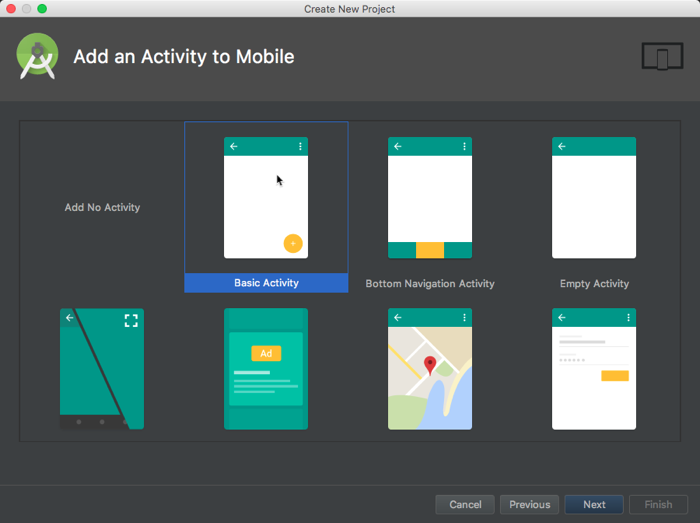
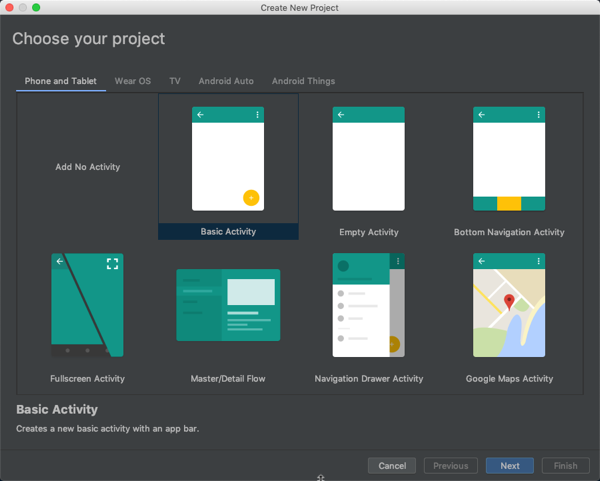
lab & demo steps updated for latest dependencies

diff --git a/Demos/03-add-aad-auth/README.md b/Demos/03-add-aad-auth/README.md
@@ -10,11 +10,11 @@ With the application created, now extend it to support authentication with Azure
     1. Add the following code to the top of the `dependencies` section, immediately before the dependencies added in the previous section:
 
         ```gradle
-        implementation('com.microsoft.identity.client:msal:0.1.3') {
+        implementation('com.microsoft.identity.client:msal:0.2.1') {
             exclude group: 'com.android.support', module: 'appcompat-v7'
             exclude group: 'com.google.code.gson'
         }
-        implementation 'com.android.volley:volley:1.0.0'
+        implementation 'com.android.volley:volley:1.1.0'
         ```
 
     1. Sync the dependencies with the project by selecting **File > Sync Project with Gradle Files**.
@@ -44,14 +44,14 @@ With the application created, now extend it to support authentication with Azure
         </activity>
         ```
 
-    1. Replace the `{{REPLACE_WITH_APP_ID}}` in the markup above with the value of the Azure AD application copied when creating a the Azure AD application in a previous demo. Do not remove the **msal** prefix in the markup above.
+    1. Replace the `{{REPLACE_WITH_APP_ID}}` in the markup above with the value of the Azure AD application copied when creating a the Azure AD application in [exercise 1 above](#exercise1). Do not remove the **msal** prefix in the markup above.
 
       > The MSAL Android SDK does not require you to enter the redirect URI provided by the App Registration Portal. It can use the information provided in this step to dynamically generate the redirect URI for you.
 
 1. Add an class to declare a new callback type that you will use:
     1. In the **Android** tool window, right-click the **app > java > com.microsoft.nativeo365calendarevents** and select **New > Java Class**:
 
-        ![Screenshot adding a new Java class](./Images/as-create-aad-01.png)
+        ![Screenshot adding a new Java class](../../Images/as-create-aad-01.png)
 
     1. Name the class **Constants** and select **OK**.
 
@@ -60,16 +60,16 @@ With the application created, now extend it to support authentication with Azure
         public static final String CLIENT_ID = "{{REPLACE_WITH_APP_ID}}";
         ```
 
-    1. Replace the `{{REPLACE_WITH_APP_ID}}` in the markup above with the value of the Azure AD application copied when creating a the Azure AD application in a previous demo. Do not remove the **msal** prefix in the markup above.
+    1. Replace the `{{REPLACE_WITH_APP_ID}}` in the markup above with the value of the Azure AD application copied when creating a the Azure AD application in [exercise 1 above](#exercise1). Do not remove the **msal** prefix in the markup above.
 
 1. Add an interface to declare a new callback type that you will use:
     1. In the **Android** tool window, right-click the **app > java > com.microsoft.nativeo365calendarevents** and select **New > Java Class**:
     1. Name the class **MSALAuthenticationCallback**, set the **Kind** to **Interface** and select **OK**.
-    1. Add the following `import` statements to the existing `import` statements:
+    1. Add the following `import` statements before the interface declaration:
 
         ```java
         import com.microsoft.identity.client.AuthenticationResult;
-        import com.microsoft.identity.client.MsalException;
+        import com.microsoft.identity.client.exception.MsalException;
         ```
 
     1. Add the following code to the `MSALAuthenticationCallback` interface:
@@ -84,7 +84,7 @@ With the application created, now extend it to support authentication with Azure
 1. Add an authentication helper class:
     1. In the **Android** tool window, right-click the **app > java > com.microsoft.nativeo365calendarevents** and select **New > Java Class**:
     1. Name the class **AuthenticationController** and select **OK**.
-    1. Add the following `import` statements to the existing `import` statements:
+    1. Add the following `import` statements before the class declaration:
 
         ```java
         import android.app.Activity;
@@ -93,7 +93,7 @@ With the application created, now extend it to support authentication with Azure
 
         import com.microsoft.identity.client.AuthenticationCallback;
         import com.microsoft.identity.client.AuthenticationResult;
-        import com.microsoft.identity.client.MsalException;
+        import com.microsoft.identity.client.exception.MsalException;
         import com.microsoft.identity.client.PublicClientApplication;
         ```
 
@@ -125,6 +125,10 @@ With the application created, now extend it to support authentication with Azure
             }
           }
           return INSTANCE;
+        }
+
+        public static synchronized void resetInstance() {
+          INSTANCE = null;
         }
         ```
 
@@ -175,6 +179,16 @@ With the application created, now extend it to support authentication with Azure
         }
         ```
 
+    1. Add the following code to the `AuthenticationController` class to sign out of the application:
+
+        ```java
+        public void signout() {
+          mApplication.removeAccount(mAuthResult.getAccount());
+          // Reset the AuthenticationManager object
+          AuthenticationController.resetInstance();
+        }
+        ```
+
 1. The callback added in the last step calls the provided callback based on the results of the authentication prompt. While there are many ways to implement the callback, this application will implement it on the **MainActivity**.
     1. In the **Android** tool window, locate and open the file **app > java > com.microsoft.nativeo365calendarevents > MainActivity**.
     1. Update the `MainActivity` class to implement the `MSALAuthenticationCallback`:
@@ -190,8 +204,8 @@ With the application created, now extend it to support authentication with Azure
         import android.util.Log;
 
         import com.microsoft.identity.client.AuthenticationResult;
-        import com.microsoft.identity.client.MsalException;
-        import com.microsoft.identity.client.User;
+        import com.microsoft.identity.client.exception.MsalException;
+        import com.microsoft.identity.client.IAccount;
         ```
 
     1. Add the following methods to implement the `MSALAuthenticationCallback` interface.
@@ -201,11 +215,11 @@ With the application created, now extend it to support authentication with Azure
         // these methods are called by the AuthenticationController
         @Override
         public void onMsalAuthSuccess(AuthenticationResult authenticationResult) {
-          User user = authenticationResult.getUser();
+          IAccount user = authenticationResult.getAccount();
 
-          Toast.makeText(MainActivity.this, "Hello " + user.getName() 
-            + " (" + user.getDisplayableId() + ")!", Toast.LENGTH_LONG
-            ).show();
+          Toast.makeText(MainActivity.this, "Hello " + user.getUsername()
+                  + " (" + user.getAccountIdentifier() + ")!", Toast.LENGTH_LONG
+          ).show();
 
           setPanelVisibility(false, true, false);
         }
@@ -227,13 +241,20 @@ With the application created, now extend it to support authentication with Azure
         //endregion
         ```
 
-1. Wire up the signin button to the authentication process:
-    1. Replace the contents of the `onSignin()` method to the following code:
+1. Wire up the signin and signout buttons to the authentication process:
+    1. Replace the contents of the `onSignin()` & `onSignout()` methods to the following code:
 
         ```java
         private void onSignin() {
           AuthenticationController authController = AuthenticationController.getInstance(this);
           authController.doAcquireToken(this, this);
+        }
+
+        private void onSignout() {
+          AuthenticationController authController = AuthenticationController.getInstance(this);
+          authController.signout();
+
+          setPanelVisibility(true, false, false);
         }
         ```
 
@@ -255,10 +276,10 @@ With the application created, now extend it to support authentication with Azure
     1. When the application loads in the simulator, select the **Signin** button.
     1. The application will load the Azure AD authentication page. Login with your Office 365 Azure AD credentials.
 
-        ![Screenshot of the Azure AD login in the Android simulator](./Images/android-demo-04.png)
+        ![Screenshot of the Azure AD login in the Android simulator](../../Images/android-demo-04.png)
 
         After successfully logging in, you may be prompted to consent to the permissions requested by the application. If prompted, agree to the consent dialog.
 
     1. After completing the authentication and consent process, you will be taken back to the Android application where a toast message will appear with your Azure AD details in it.
 
-        ![Screenshot of the Azure AD login in the Android simulator](./Images/android-demo-05.png)
+        ![Screenshot of the Azure AD login in the Android simulator](../../Images/android-demo-05.png)

diff --git a/Demos/02-create-app/README.md b/Demos/02-create-app/README.md
@@ -4,25 +4,17 @@ In this demo you will create an Android application and wire up the different sc
 
 1. Open **Android Studio**
 1. Select **Start a new Android Studio project**.
-1. In the new project dialog, set the following values:
-    * **Application name:** NativeO365CalendarEvents
-    * **Company domain:** microsoft.com
+1. In the **Choose your project** dialog, under the **Phone and Tablet** tab, select **Basic Activity** and select **Next**:
+
+    ![Screenshot selecting Basic Activity in the Choose your project dialog](../../Images/as-createproject-03.png)
+
+1. In the **Configure your project** dialog, set the following values:
+    * **Name:** NativeO365CalendarEvents
+    * **Package name:** com.microsoft.nativeo365calendarevents
+    * **Language:** Java
+    * **Minimum API Level:** API 23: Android 6.0 (Marshmallow)
 
     ![Screenshot of the new project dialog in Android Studio](../../Images/as-createproject-01.png)
-
-1. In the **Target Android Devices** dialog, set the following values and select **Next**:
-    * **Phone and Tablet**: selected and pick the desired Android version you want to target... select an API version 23 or higher
-    * leave all other options selected
-
-    ![Screenshot of specifying the target Android devices](../../Images/as-createproject-02.png)
-
-1. In the **Add an Activity to Mobile** dialog, select **Basic Activity** and select **Next**:
-
-    ![Screenshot selecting Basic Activity in the Add Activity to Mobile dialog](../../Images/as-createproject-03.png)
-
-1. In the **Configure Activity** dialog, leave the default values and select **Finish**:
-
-    ![Screenshot specifying the details of the new activity](../../Images/as-createproject-04.png)
 
 1. Add the necessary dependencies to the project:
     1. In the **Android** tool window, locate and open the file **Gradle Scripts > build.gradle (Module: app)**:
@@ -32,13 +24,13 @@ In this demo you will create an Android application and wire up the different sc
     1. Add the following implementations to the top of the existing `dependencies` section:
 
         ```gradle
-        implementation 'com.google.code.gson:gson:2.3.1'
+        implementation 'com.google.code.gson:gson:2.8.2'
         implementation 'com.google.guava:guava:25.1-android'
         ```
 
     1. Sync the dependencies with the project by selecting **File > Sync Project with Gradle Files**.
 
-## Create the Application User Interface
+### Create the Application User Interface
 
 The first step is to create the shell of the user experience; creating a workable storyboard.
 
@@ -92,7 +84,18 @@ The first step is to create the shell of the user experience; creating a workabl
                 android:paddingBottom="5dp"
                 android:paddingLeft="35dp"
                 android:paddingRight="35dp"
-                />
+              />
+            <Button
+                android:layout_width="wrap_content"
+                android:layout_height="wrap_content"
+                android:text="Sign out"
+                android:id="@+id/btn_signOut"
+                android:layout_gravity="center"
+                android:paddingTop="5dp"
+                android:paddingBottom="5dp"
+                android:paddingLeft="35dp"
+                android:paddingRight="35dp"
+              />
         </LinearLayout>
         <LinearLayout
             android:layout_width="match_parent"
@@ -152,9 +155,13 @@ The first step is to create the shell of the user experience; creating a workabl
           setPanelVisibility(false,true,false);
         }
 
+        private void onSignout() {
+          setPanelVisibility(true, false, false);
+        }
+
         private void onLoadEvents() {
           Toast.makeText(MainActivity.this, 
-            "Successfully loaded events from Office 365 calendar",
+            "Successfully loaded events from Office 365 calendar", 
             Toast.LENGTH_LONG
           ).show();
         }
@@ -171,6 +178,7 @@ The first step is to create the shell of the user experience; creating a workabl
         ```java
         super.onCreate(savedInstanceState);
         setContentView(R.layout.activity_main);
+
         listEvents = findViewById(R.id.list_events);
         panelSignIn = findViewById(R.id.panel_signIn);
         panelEvents = findViewById(R.id.panel_events);
@@ -180,6 +188,13 @@ The first step is to create the shell of the user experience; creating a workabl
           @Override
           public void onClick(View view) {
             onSignin();
+          }
+        });
+
+        (findViewById(R.id.btn_signOut)).setOnClickListener(new View.OnClickListener() {
+          @Override
+          public void onClick(View view) {
+            onSignout();
           }
         });
 

diff --git a/Lab.md b/Lab.md
@@ -15,7 +15,9 @@ To complete this lab, you need the following:
 
 * Office 365 tenancy
   * If you do not have one, you obtain one (for free) by signing up to the [Office 365 Developer Program](https://developer.microsoft.com/en-us/office/dev-program).
-* [Android Studio](https://developer.android.com/studio/) v3.2.1
+* [Android Studio](https://developer.android.com/studio/) v3.3.1
+* [Gradle](https://gradle.org/) v4.10.1
+  * *Installed with Andriod Studio*
 * [Android SDK](https://developer.android.com/studio/releases/sdk-tools) v26+
 
 <a name="exercise1"></a>
@@ -67,25 +69,17 @@ In this exercise you will create an Android application and wire up the differen
 
 1. Open **Android Studio**
 1. Select **Start a new Android Studio project**.
-1. In the new project dialog, set the following values:
-    * **Application name:** NativeO365CalendarEvents
-    * **Company domain:** microsoft.com
+1. In the **Choose your project** dialog, under the **Phone and Tablet** tab, select **Basic Activity** and select **Next**:
+
+    ![Screenshot selecting Basic Activity in the Choose your project dialog](./Images/as-createproject-03.png)
+
+1. In the **Configure your project** dialog, set the following values:
+    * **Name:** NativeO365CalendarEvents
+    * **Package name:** com.microsoft.nativeo365calendarevents
+    * **Language:** Java
+    * **Minimum API Level:** API 23: Android 6.0 (Marshmallow)
 
     ![Screenshot of the new project dialog in Android Studio](./Images/as-createproject-01.png)
-
-1. In the **Target Android Devices** dialog, set the following values and select **Next**:
-    * **Phone and Tablet**: selected and pick the desired Android version you want to target... select an API version 23 or higher
-    * leave all other options selected
-
-    ![Screenshot of specifying the target Android devices](./Images/as-createproject-02.png)
-
-1. In the **Add an Activity to Mobile** dialog, select **Basic Activity** and select **Next**:
-
-    ![Screenshot selecting Basic Activity in the Add Activity to Mobile dialog](./Images/as-createproject-03.png)
-
-1. In the **Configure Activity** dialog, leave the default values and select **Finish**:
-
-    ![Screenshot specifying the details of the new activity](./Images/as-createproject-04.png)
 
 1. Add the necessary dependencies to the project:
     1. In the **Android** tool window, locate and open the file **Gradle Scripts > build.gradle (Module: app)**:
@@ -95,7 +89,7 @@ In this exercise you will create an Android application and wire up the differen
     1. Add the following implementations to the top of the existing `dependencies` section:
 
         ```gradle
-        implementation 'com.google.code.gson:gson:2.3.1'
+        implementation 'com.google.code.gson:gson:2.8.2'
         implementation 'com.google.guava:guava:25.1-android'
         ```
 
@@ -319,7 +313,7 @@ With the application created, now extend it to support authentication with Azure
             exclude group: 'com.android.support', module: 'appcompat-v7'
             exclude group: 'com.google.code.gson'
         }
-        implementation 'com.android.volley:volley:1.0.0'
+        implementation 'com.android.volley:volley:1.1.0'
         ```
 
     1. Sync the dependencies with the project by selecting **File > Sync Project with Gradle Files**.
@@ -616,7 +610,7 @@ The last step is to incorporate the Microsoft Graph into the application. For th
 1. Add a utility class to the project that acts as a singleton to create an instance of the Microsoft Graph client:
     1. In the **Android** tool window, right-click the **app > java > com.microsoft.nativeo365calendarevents** and select **New > Java Class**:
     1. Name the class **MSGraphServiceClientManager** and select **OK**.
-    1. Add the following `import` statements to the existing `import` statements:
+    1. Add the following `import` statements after the existing `package` statement:
 
         ```java
         import android.content.Context;
@@ -678,7 +672,7 @@ The last step is to incorporate the Microsoft Graph into the application. For th
 1. Add a class to the project that acts as the Microsoft Graph controller for the application:
     1. In the **Android** tool window, right-click the **app > java > com.microsoft.nativeo365calendarevents** and select **New > Java Class**:
     1. Name the class **MSGraphServiceController** and select **OK**.
-    1. Add the following `import` statements to the existing `import` statements:
+    1. Add the following `import` statements to the existing `package` statement:
 
         ```java
         import android.content.Context;

diff --git a/Demos/04-add-msgraph/README.md b/Demos/04-add-msgraph/README.md
@@ -25,7 +25,7 @@ The last step is to incorporate the Microsoft Graph into the application. For th
 1. Add a utility class to the project that acts as a singleton to create an instance of the Microsoft Graph client:
     1. In the **Android** tool window, right-click the **app > java > com.microsoft.nativeo365calendarevents** and select **New > Java Class**:
     1. Name the class **MSGraphServiceClientManager** and select **OK**.
-    1. Add the following `import` statements to the existing `import` statements:
+    1. Add the following `import` statements after the existing `package` statement:
 
         ```java
         import android.content.Context;
@@ -87,7 +87,7 @@ The last step is to incorporate the Microsoft Graph into the application. For th
 1. Add a class to the project that acts as the Microsoft Graph controller for the application:
     1. In the **Android** tool window, right-click the **app > java > com.microsoft.nativeo365calendarevents** and select **New > Java Class**:
     1. Name the class **MSGraphServiceController** and select **OK**.
-    1. Add the following `import` statements to the existing `import` statements:
+    1. Add the following `import` statements to the existing `package` statement:
 
         ```java
         import android.content.Context;
@@ -216,4 +216,4 @@ The last step is to incorporate the Microsoft Graph into the application. For th
         Select the **Load Events** button to trigger the call to the Microsoft Graph.
     1. After a moment you will see the UI update the a list of some events from your Office 365 calendar:
 
-        ![Screenshot of Office 365 events in the Android simulator](./../../Images/android-demo-06.png)
+        ![Screenshot of Office 365 events in the Android simulator](../../Images/android-demo-06.png)
